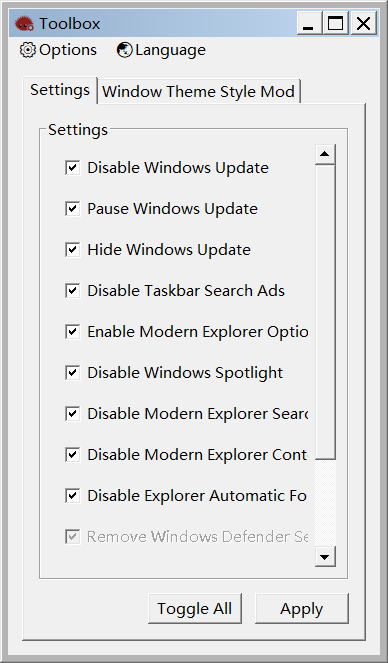
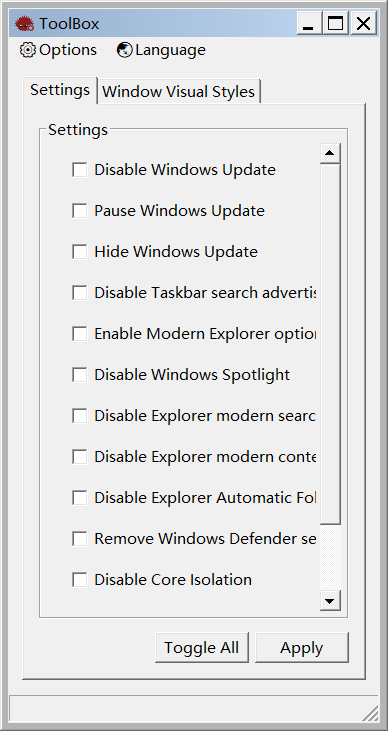
Update Chinese README screenshots
The Chinese README now references localized screenshots instead of the default English images. This adds the new zh-CN screenshot assets and updates the image paths so the localized documentation matches the translated UI.

diff --git a/README_zh_CN.md b/README_zh_CN.md
@@ -6,10 +6,11 @@
 
 <div align="center">
   <kbd>
-    <img src="./screenshot/1.png" />
-    <img src="./screenshot/2.png" />
+    <img src="./screenshot/1_zh_CN.png" />
+    <img src="./screenshot/2_zh_CN.png" />
   </kbd>
 </div>
+
 
 
 
